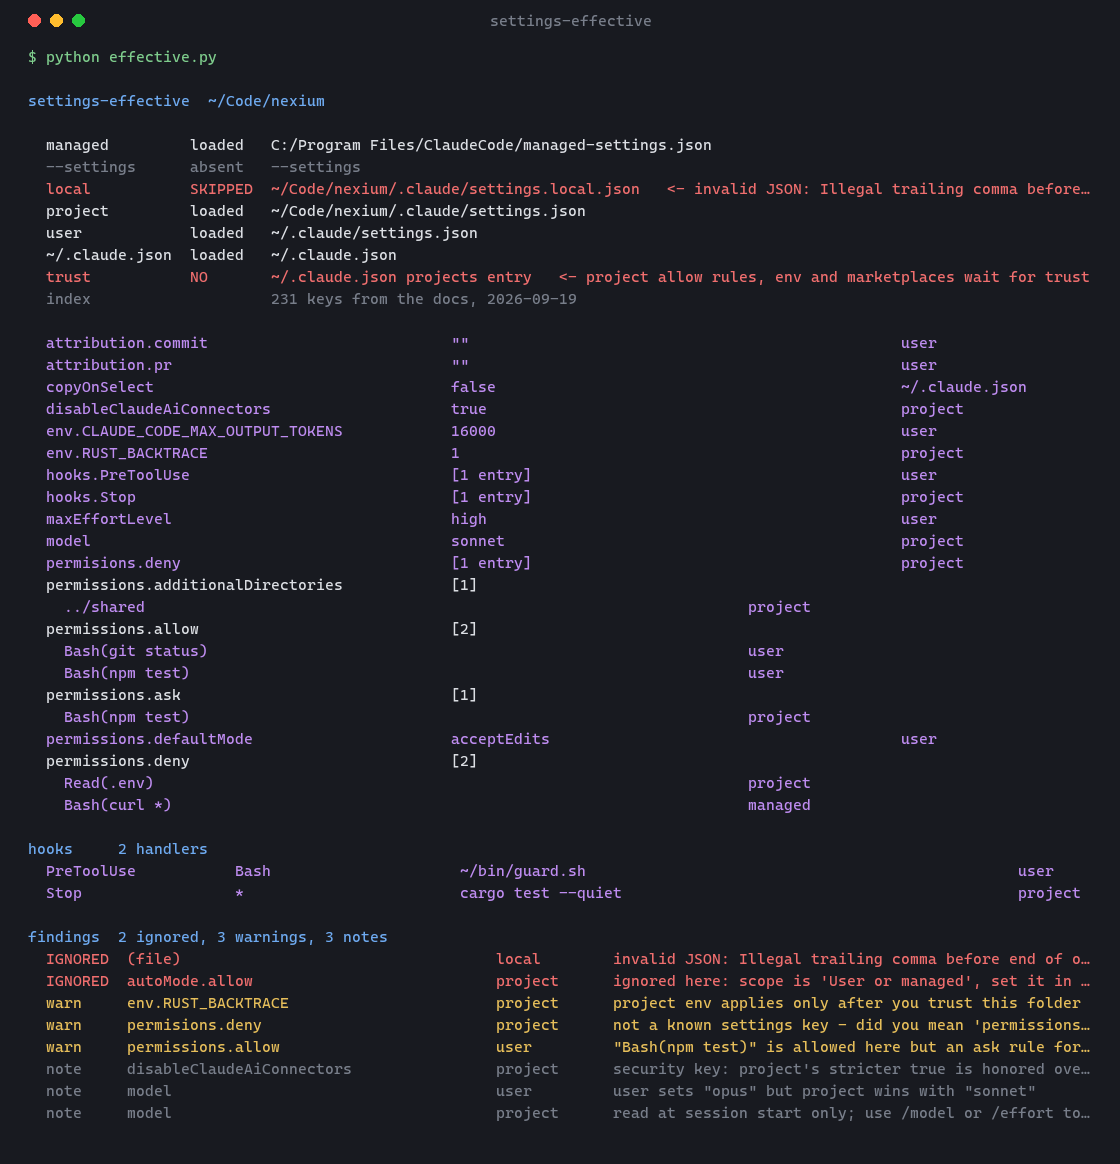
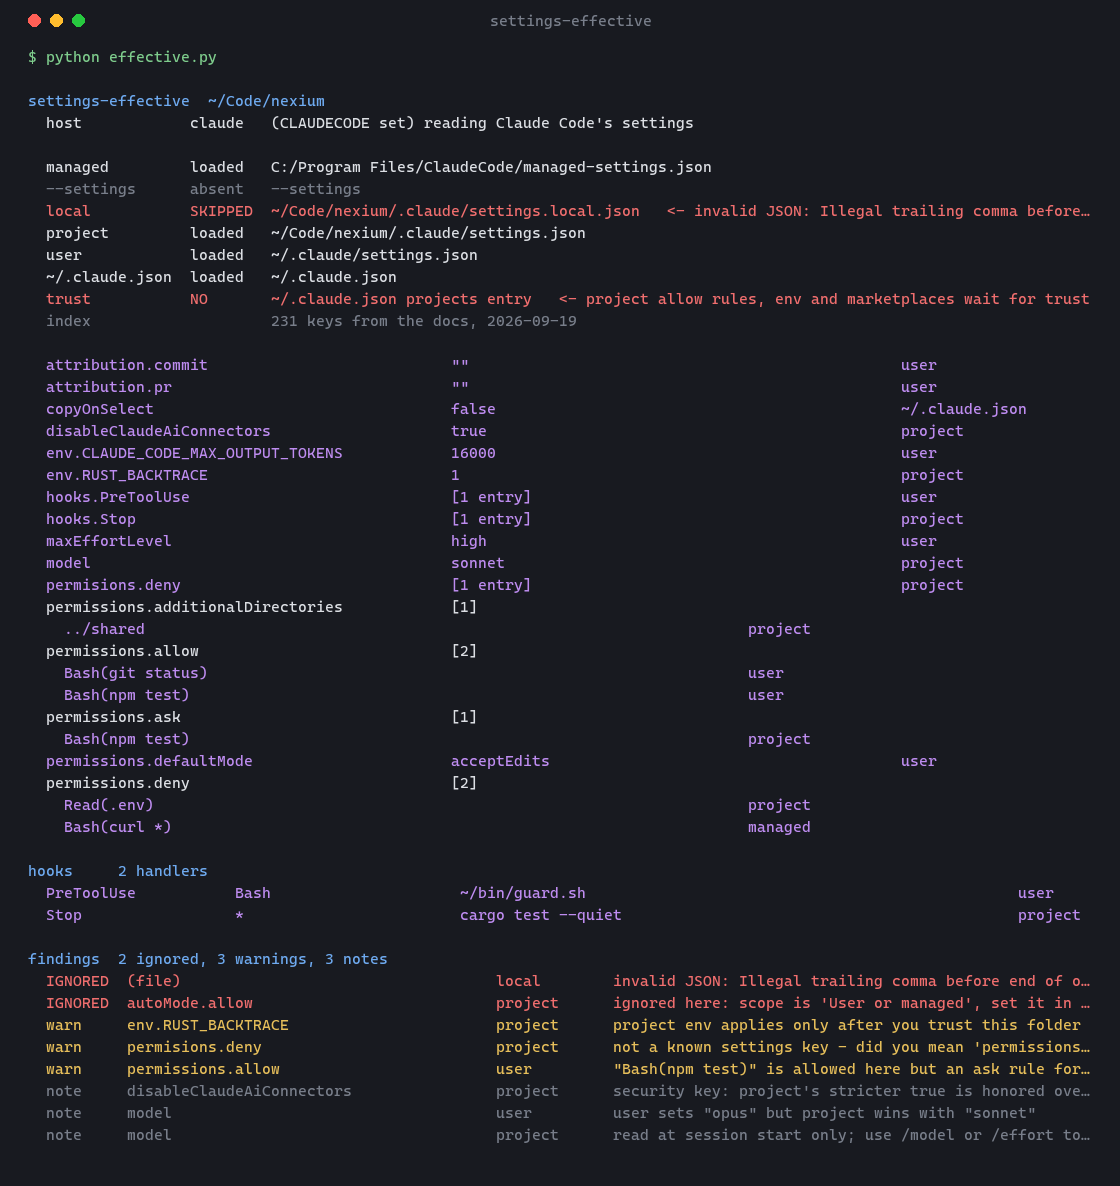
Run from any Agent Skills host; header says which one and that its own config is a different merge (1.1.0)
Detects Claude Code, Codex, Cursor and Gemini CLI from the environment and
prints a host line. The subject stays Claude Code's settings; under Codex the
line names ~/.codex/config.toml as codex's own, unread here. SKILL.md gains a
Which-host section and the spec frontmatter; agents/openai.yaml for Codex UI
metadata; README install matrix; 3 new tests.

diff --git a/skills/settings-effective/scripts/effective.py b/skills/settings-effective/scripts/effective.py
@@ -15,7 +15,9 @@ names the reasons a key you set is not the one in effect.
     python effective.py --strict              exit 1 on any error-level finding
     python effective.py --json                everything, machine-readable
 
-Stdlib only. Read-only, always.
+Stdlib only. Read-only, always. Inspects Claude Code's settings from whichever agent
+runs it; other hosts' own config (Codex config.toml, Cursor, Gemini settings.json) is
+a different merge and is not read here.
 """
 from __future__ import annotations
 
@@ -323,9 +325,27 @@ class Finding:
     message: str
 
 
+# The agent this ran under, from the variables hosts set in the shells they spawn. Only
+# informational: the settings inspected are always Claude Code's.
+HOST_MARKERS = {"claude": ["CLAUDECODE"], "codex": ["CODEX_SANDBOX", "CODEX_SANDBOX_NETWORK_DISABLED"],
+                "cursor": ["CURSOR_AGENT"], "gemini": ["GEMINI_CLI"]}
+HOST_OWN_CONFIG = {"codex": "~/.codex/config.toml and .codex/config.toml", "cursor": "Cursor's settings and .cursor/",
+                   "gemini": "~/.gemini/settings.json and .gemini/settings.json"}
+
+
+def detect_host() -> tuple[str | None, str | None]:
+    for key, vars_ in HOST_MARKERS.items():
+        for var in vars_:
+            if os.environ.get(var):
+                return key, var
+    return None, None
+
+
 @dataclass
 class Report:
     project: str
+    host: str = ""                                   # agent this ran under, when detectable
+    host_note: str = ""
     layers: list[Layer] = field(default_factory=list)
     trusted: bool | None = None
     legacy_allowed_tools: list[str] = field(default_factory=list)
@@ -634,6 +654,8 @@ def short(v: Any, width: int) -> str:
 def render(rep: Report, a) -> None:
     W = 200 if a.full else 48
     print(f"settings-effective  {rep.project}")
+    if rep.host:
+        print(f"  {'host':15} {rep.host:8} {rep.host_note}")
     print()
     for l in sorted(rep.layers, key=lambda l: RANK[l.name]):
         state = "loaded" if l.present else ("SKIPPED" if l.error else "absent")
@@ -720,6 +742,12 @@ def build(a) -> Report:
     claude_home = Path(a.claude_home)
     proj = project_dir(Path(a.project))
     rep = Report(project=str(proj))
+    host, var = detect_host()
+    if host:
+        rep.host = host
+        rep.host_note = (f"({var} set) reading Claude Code's settings" +
+                         (f"; {HOST_OWN_CONFIG[host]} are {host}'s own config and a different merge, not shown here"
+                          if host in HOST_OWN_CONFIG else ""))
     managed_dir = Path(a.managed_dir) if a.managed_dir else MANAGED_DIRS.get(sys.platform, MANAGED_DIRS["linux"])
     glayer, raw_global = global_layer(Path(a.claude_json) if a.claude_json else Path.home() / ".claude.json")
     rep.layers = [

diff --git a/tests/test_hosts.py b/tests/test_hosts.py
@@ -1,0 +1,53 @@
+"""Tests for the host line of effective.py: which agent the report ran under, and the
+reminder that another host's own config is a different merge.
+
+    python -m unittest discover -s tests -v
+"""
+from __future__ import annotations
+
+import os
+import unittest
+from unittest import mock
+
+from test_effective import Base  # noqa: E402
+import effective  # noqa: E402
+
+KEEP = ("HOME", "USERPROFILE", "HOMEDRIVE", "HOMEPATH", "PATH", "SYSTEMROOT", "TEMP", "TMP", "ProgramFiles")
+
+
+def env_only(extra: dict) -> dict:
+    return {**{k: v for k, v in os.environ.items() if k in KEEP}, **extra}
+
+
+class Hosts(Base):
+    def test_claude_host_line(self):
+        self.user({"model": "opus"})
+        with mock.patch.dict(os.environ, env_only({"CLAUDECODE": "1"}), clear=True):
+            self.assertEqual(effective.detect_host(), ("claude", "CLAUDECODE"))
+            code, out = self.run_main()
+        self.assertIn("host            claude   (CLAUDECODE set) reading Claude Code's settings", out)
+        self.assertNotIn("different merge", out)
+
+    def test_codex_host_names_its_own_config(self):
+        self.user({"model": "opus"})
+        with mock.patch.dict(os.environ, env_only({"CODEX_SANDBOX": "seatbelt"}), clear=True):
+            code, out = self.run_main()
+            rep = self.report()
+        self.assertIn("host            codex", out)
+        self.assertIn("~/.codex/config.toml", out)
+        self.assertIn("different merge", out)
+        self.assertEqual(rep["host"], "codex")
+        # the subject did not change: Claude Code's user layer is still what gets resolved
+        self.assertTrue(any(e["key"] == "model" and e["value"] == "opus" for e in rep["entries"]))
+
+    def test_no_marker_omits_the_line(self):
+        with mock.patch.dict(os.environ, env_only({}), clear=True):
+            self.assertEqual(effective.detect_host(), (None, None))
+            code, out = self.run_main()
+            rep = self.report()
+        self.assertNotIn("host ", out.splitlines()[1] if len(out.splitlines()) > 1 else "")
+        self.assertEqual(rep["host"], "")
+
+
+if __name__ == "__main__":
+    unittest.main()

diff --git a/README.md b/README.md
@@ -2,18 +2,19 @@
 
 # 🧭 settings-effective
 
-**The Claude Code settings actually in effect — every key, and which file decided it. Plus the reasons the one you set isn't.**
+**The Claude Code settings actually in effect — every key, and which file decided it. Plus the reasons the one you set isn't. Runs from Claude Code, Codex, Cursor or any Agent Skills host.**
 
 [![CI](https://github.com/Londopy/settings-effective/actions/workflows/ci.yml/badge.svg)](https://github.com/Londopy/settings-effective/actions/workflows/ci.yml)
 [![License: MIT](https://img.shields.io/badge/license-MIT-blue.svg)](LICENSE)
 [![Python 3.10+](https://img.shields.io/badge/python-3.10%2B-3776AB?logo=python&logoColor=white)](https://www.python.org/)
 [![Dependencies: none](https://img.shields.io/badge/dependencies-none-brightgreen)](skills/settings-effective/scripts/effective.py)
-[![Claude Code plugin](https://img.shields.io/badge/Claude_Code-plugin-D97757?logo=anthropic&logoColor=white)](https://code.claude.com/docs/en/plugins)
+[![Agent Skills](https://img.shields.io/badge/Agent_Skills-spec-111)](https://agentskills.io)
+[![Runs from](https://img.shields.io/badge/runs_from-Claude_Code_%7C_Codex_%7C_Cursor_%7C_Gemini_CLI_%7C_Copilot_%7C_OpenCode-D97757)](#install)
 [![Platform](https://img.shields.io/badge/platform-windows%20%7C%20macos%20%7C%20linux-lightgrey)](#install)
 
 <img src="docs/demo.png" alt="settings-effective output: the six layers, each effective key with its source, and the findings that explain a setting that is not applying" width="900">
 
-<sub>Part of the rollcall family — tools that make what Claude Code does silently legible: [skill-rollcall](https://github.com/Londopy/skill-rollcall) · [mcp-rollcall](https://github.com/Londopy/mcp-rollcall) · **settings-effective** · [git-attribution](https://github.com/Londopy/git-attribution)</sub>
+<sub>Part of the rollcall family — tools that make what your coding agent does silently legible: [skill-rollcall](https://github.com/Londopy/skill-rollcall) · [mcp-rollcall](https://github.com/Londopy/mcp-rollcall) · **settings-effective** · [git-attribution](https://github.com/Londopy/git-attribution) · all four: [agent-skills](https://github.com/Londopy/agent-skills)</sub>
 
 </div>
 
@@ -38,12 +39,14 @@ Read-only, always.
 
 ## Install
 
-Pick whichever fits how you manage skills; all three produce the same result.
+One layout — `skills/settings-effective/SKILL.md` + `scripts/effective.py` — is the [Agent Skills](https://agentskills.io) standard, so the same folder works in every host. The subject is always Claude Code's settings; a machine that runs several agents still has one Claude Code configuration to debug, and this reads it from whichever agent you're in.
 
-**`skills` CLI** (global; `--copy` because symlinks need Developer Mode on Windows):
+**`skills` CLI** — any of 79 agents (global; `--copy` because symlinks need Developer Mode on Windows):
 
 ```bash
-npx skills add Londopy/settings-effective -g --copy
+npx skills add Londopy/settings-effective -g --copy                  # picks the agents it finds
+npx skills add Londopy/settings-effective -g --copy -a codex -a cursor
+npx skills add Londopy/settings-effective -g --copy --all            # every agent, no prompts
 ```
 
 **Claude Code plugin** (in an interactive `claude` session):
@@ -53,22 +56,27 @@ npx skills add Londopy/settings-effective -g --copy
 /plugin install settings-effective@settings-effective
 ```
 
-**By hand:**
+**By hand** — copy the folder into the host's skills directory:
 
 ```bash
 git clone https://github.com/Londopy/settings-effective
-cp -r settings-effective/skills/settings-effective ~/.claude/skills/
+cp -r settings-effective/skills/settings-effective ~/.claude/skills/          # Claude Code
+cp -r settings-effective/skills/settings-effective ~/.agents/skills/          # Codex, Cline, Zed, Warp (universal)
+cp -r settings-effective/skills/settings-effective ~/.cursor/skills/          # Cursor
+cp -r settings-effective/skills/settings-effective ~/.gemini/skills/          # Gemini CLI
+cp -r settings-effective/skills/settings-effective ~/.copilot/skills/         # GitHub Copilot
+cp -r settings-effective/skills/settings-effective ~/.config/opencode/skills/ # OpenCode
 ```
 
 ## Usage
 
-### From Claude
+### From your agent
 
 Say what you'd naturally say — "why is my model setting ignored?", "why does it still ask me about `npm test`?", "which hooks are actually running?", "where do I put `autoMode`?" — or type `/settings-effective`. Claude runs it from the project you're in, answers the question about your key first, then the findings that touch it. After Claude edits a settings file itself, it reruns with `--key` to confirm the edit landed where it applies.
 
 ### As a CLI
 
-Stdlib-only Python, nothing in it depends on Claude:
+Stdlib-only Python, nothing in it depends on any particular agent (the header's `host` line says which one you ran it from):
 
 ```bash
 python ~/.claude/skills/settings-effective/scripts/effective.py
@@ -122,6 +130,8 @@ The same way the [docs](https://code.claude.com/docs/en/settings#settings-preced
 `/status` lists which files loaded. `/permissions` and `/hooks` show and edit their slice. `/config` writes user-level keys. `claude doctor` reports dropped files. None of them show a merged key with its source or tell you a key is somewhere it can't apply. [`skill-rollcall`](https://github.com/Londopy/skill-rollcall) does the same job for skills.
 
 ## What it cannot do
+
+- **It reads Claude Code's settings only.** Codex's `config.toml` layers, Cursor's settings and Gemini's `settings.json` are different merges; under those hosts the header says so. Their MCP servers and skills are covered by [mcp-rollcall](https://github.com/Londopy/mcp-rollcall) and [skill-rollcall](https://github.com/Londopy/skill-rollcall).
 
 - **It reads files, not the running harness.** Managed policy delivered by MDM or the claude.ai console rather than a file isn't visible here; `/status` is the authority for that.
 - **Merge rules come from the docs, not the source.** A key with bespoke merging the docs don't describe is shown per leaf. `modelSettings` is resolved per model by the harness.

diff --git a/skills/settings-effective/SKILL.md b/skills/settings-effective/SKILL.md
@@ -1,6 +1,11 @@
 ---
 name: settings-effective
-description: Show the merged Claude Code settings actually in effect and which file decided each key - managed policy, --settings, .claude/settings.local.json, .claude/settings.json, ~/.claude/settings.json and ~/.claude.json - and name the reasons a setting is not applying. Use this whenever the user says a setting isn't working or isn't taking effect, asks why they are still being prompted for a tool they allowed, asks which settings file wins or where a value is coming from, asks what a settings key does or where it goes, wants their settings files checked for typos or keys in the wrong file, asks whether a project is trusted, or wants to see all their hooks, permission rules or env in one place. Also use it after you edit any settings.json yourself, to confirm the key landed where it applies.
+description: Show the merged Claude Code settings actually in effect and which file decided each key - managed policy, --settings, .claude/settings.local.json, .claude/settings.json, ~/.claude/settings.json and ~/.claude.json - and name the reasons a setting is not applying. Runs from any agent; it inspects Claude Code's files. Use this whenever the user says a Claude Code setting isn't working or isn't taking effect, asks why they are still being prompted for a tool they allowed, asks which settings file wins or where a value is coming from, asks what a settings key does or where it goes, wants their settings files checked for typos or keys in the wrong file, asks whether a project is trusted, or wants to see all their hooks, permission rules or env in one place. Also use it after you edit any settings.json yourself, to confirm the key landed where it applies.
+license: MIT
+compatibility: Requires Python 3.10+. Read-only. Inspects Claude Code settings; runs from any Agent Skills host.
+metadata:
+  author: Londopy
+  version: "1.1.0"
 ---
 
 # settings-effective
@@ -14,10 +19,22 @@ project value overriding the user value you just edited, an `allow` rule losing 
 skipped whole. This skill prints the merged result with provenance and lists those
 reasons.
 
-The script is at `scripts/effective.py` next to this file (installed as a skill that is
-`~/.claude/skills/settings-effective/scripts/effective.py`). Stdlib-only and read-only,
-always. It carries the docs' settings index (231 keys with the scope each may be set
-from); the date is printed in the header and `docs/update_index.py` refreshes it.
+The script is `scripts/effective.py` next to this file - run it from wherever this skill
+was installed (`~/.claude/skills/settings-effective/`, `~/.agents/skills/settings-effective/`,
+`~/.cursor/skills/...`, or a project's `.agents/skills/`). Stdlib-only Python 3.10+ and
+read-only, always. It carries the docs' settings index (231 keys with the scope each may
+be set from); the date is printed in the header and `docs/update_index.py` refreshes it.
+
+## Which host
+
+The subject is always Claude Code's settings: that is the merge with six layers and
+scope rules worth making legible. You can run it from Codex, Cursor or Gemini CLI - a
+machine with several agents still has one Claude Code configuration to debug - and the
+header's `host` line then says which agent you are and that its own config
+(`~/.codex/config.toml`, Cursor's settings, `~/.gemini/settings.json`) is a different
+merge this tool does not read. For those hosts' MCP servers use `mcp-rollcall`; for
+their skills, `skill-rollcall`. If the user asks about a Codex or Cursor *setting*, say
+so plainly rather than running this.
 
 ## Pick the mode from what the user asked
 
@@ -74,7 +91,8 @@ file that cannot set it. `skill-rollcall` does the same job for skills.
 
 It reads files; it does not ask the running harness what it loaded, so a managed
 source delivered by MDM or the claude.ai console rather than a file is not seen, and
-`/status` is the authority there. Its merge rules come from the docs, not the harness
+`/status` is the authority there. It does not resolve any other agent's settings -
+Codex's `config.toml` layers, Cursor's or Gemini's - only Claude Code's. Its merge rules come from the docs, not the harness
 source, so a key with bespoke merging the docs do not describe may be shown per-leaf
 when the harness treats it whole. `modelSettings` is resolved per model by the harness
 and shown per leaf here. And the index is a snapshot: a key newer than its date shows

diff --git a/CHANGELOG.md b/CHANGELOG.md
@@ -1,5 +1,15 @@
 # Changelog
 
+## 1.1.0 - 2026-09-21
+
+- Runs from any Agent Skills host. The header gains a `host` line naming the agent it
+  ran under (from `CLAUDECODE`, `CODEX_SANDBOX`, `CURSOR_AGENT`, `GEMINI_CLI`) and, under
+  Codex, Cursor or Gemini, saying that their own config is a different merge this tool
+  does not read. The subject stays Claude Code's settings. JSON gains `host`, `host_note`.
+- SKILL.md rewritten with a "Which host" section and the Agent Skills spec frontmatter
+  (`license`, `compatibility`, `metadata`); `agents/openai.yaml` for Codex / ChatGPT UI
+  metadata; README install matrix for Codex, Cursor, Gemini CLI, Copilot and OpenCode.
+
 ## 1.0.0 - 2026-09-19
 
 Initial release.
